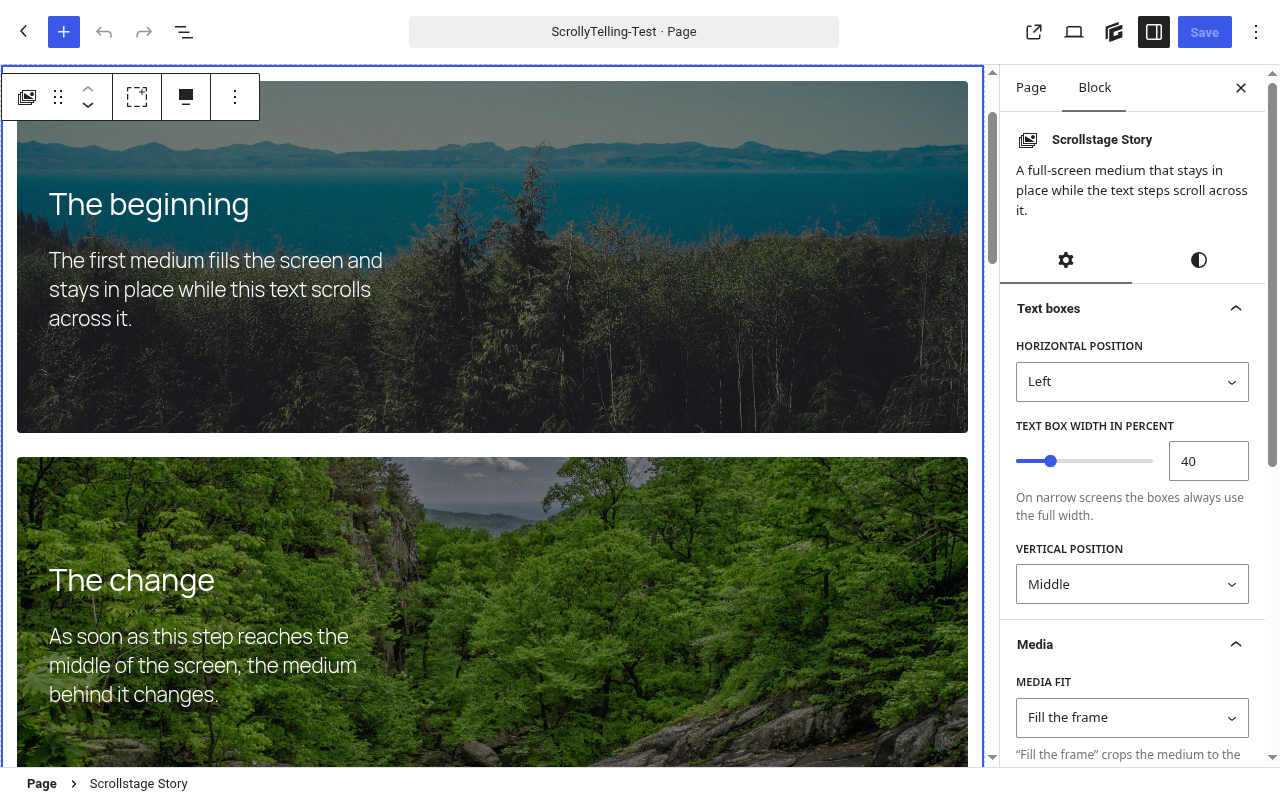
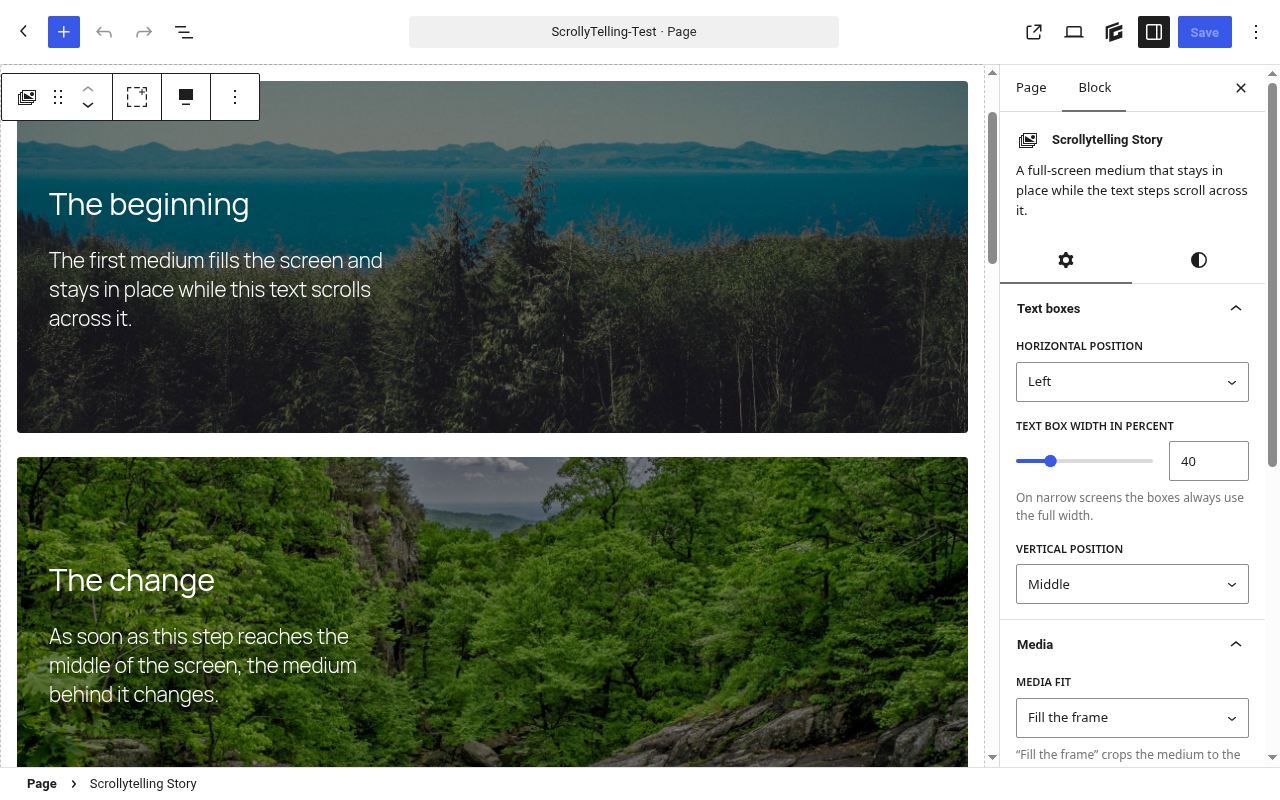
Assets: Screenshots für WordPress.org ohne den früheren Namen
screenshot-1 ohne Browserleiste, screenshot-3 und -4 im Editor neu
aufgenommen. Konzept 1.38.

Changed region(s): [[0.8438, 0.1562, 0.9062, 0.1875], [0.0938, 0.9688, 0.1562, 1.0]]

diff --git a/docs/konzept.md b/docs/konzept.md
@@ -1,6 +1,6 @@
 # Gorres Scrollytelling – Konzept und Aufbau
 
-Version: 1.37 · Stand: 02.10.2026 · Plugin-Version: 2.12.0
+Version: 1.38 · Stand: 02.10.2026 · Plugin-Version: 2.12.0
 
 ## 1. Zweck
 
@@ -848,3 +848,4 @@ aber mit Node 20.
 | 1.35 | 02.10.2026 | Abschnitt 12, Onlinehilfe: Aufnahmen der Editor-Bereiche (`docs/hilfe-screenshots/`, Schema `scrollstage-ui-<block>-<bereich>-<en\|de>.png`, doppelte Auflösung) in beiden Sprachen in die Hilfe-Seiten eingebaut (Spalten-Block, Bild 280 px breit mit Rahmen, Alternativtext in der Seitensprache); die deutschen Seiten nennen die deutschen Schalternamen der Übersetzung für 2.11.0 (`scrollstage-glotpress/stable-de_DE.po`, nur lokal auf scrollstage.local geladen, nicht im Bundle); am Plugin selbst nichts geändert |
 | 1.36 | 02.10.2026 | Umbenennung: Das Plugin heißt Gorres Scrollytelling, Slug und Text-Domain `gorres-scrollytelling`, Hauptdatei `gorres-scrollytelling.php`, Block-Namensraum `gorres-scrollytelling/*`, Blöcke „Scrollytelling Story/Step/Row/Afterword“ (Plugin 2.12.0). Prefix `jgor_st_` und Klassen `jgor-st-*` bleiben. Hilfe-Site, Übersetzung und Bundle umgestellt; die Inhalte von scrollstage.local, scrollstage-pro.local und plugintest.local per Suchen/Ersetzen im Block-Markup migriert. Ältere Einträge dieser Tabelle nennen noch den früheren Namen Scrollstage. Offen: Grafiken mit dem neuen Schriftzug, Umzug von Repo-Ordner und lokalen Sites |
 | 1.37 | 02.10.2026 | Grafiken mit dem neuen Schriftzug: „Gorres“ klein und hellblau über „Scrollytelling“ (Noto Sans Bold, in den animierten SVG als Pfade); `docs/banner.svg`, die vier animierten Banner-SVG (im Hochformat die Bühne etwas kleiner, damit der zweizeilige Schriftzug Platz hat) und die vier PNG-Animationen unter `assets/` neu erzeugt; Logo und Startseiten-Banner der Onlinehilfe ersetzt, Bundle neu exportiert. Offen: `screenshot-1.png`, `-3.png` und `-4.png` zeigen noch den alten Namen (Browser-Tab bzw. Blocknamen im Editor) |
+| 1.38 | 02.10.2026 | WordPress.org-Screenshots ohne den früheren Namen: `screenshot-1.png` ohne Browserleiste (oben 50 px abgeschnitten, 800×570, sonst bildgleich), `screenshot-3.png` und `screenshot-4.png` im Editor neu aufgenommen (Blocknamen „Scrollytelling Story“ und „Scrollytelling Step“) |
